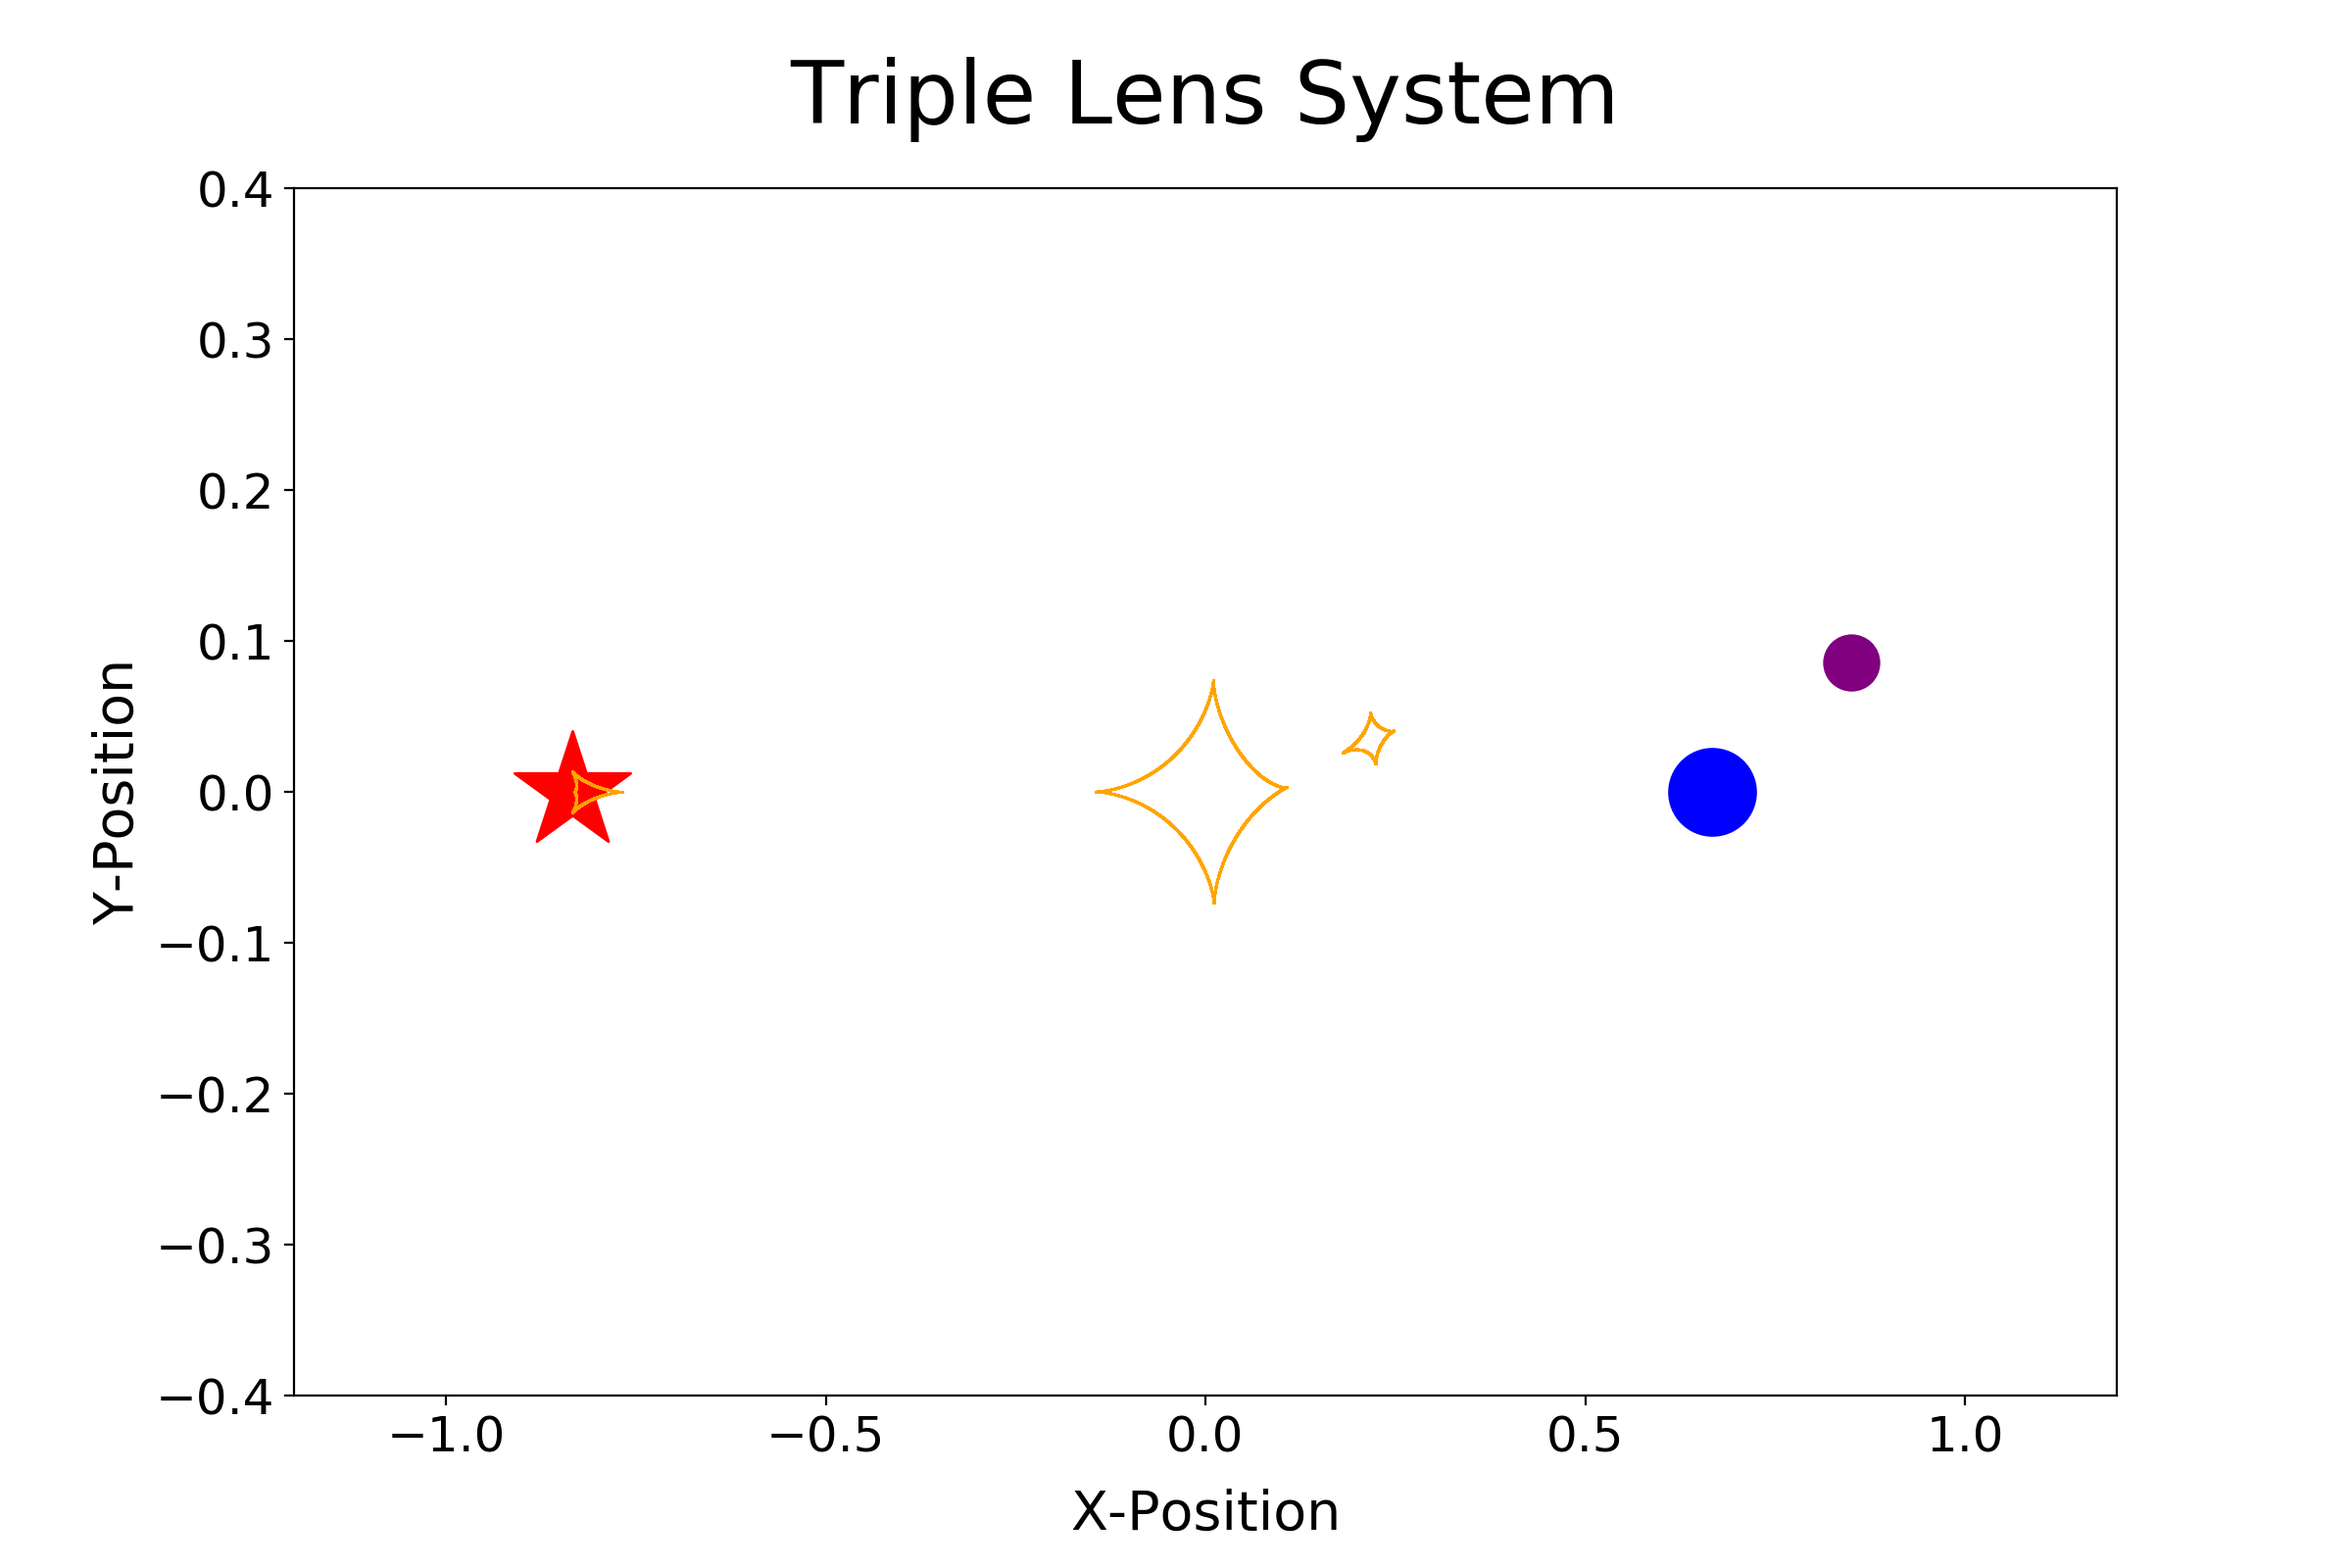
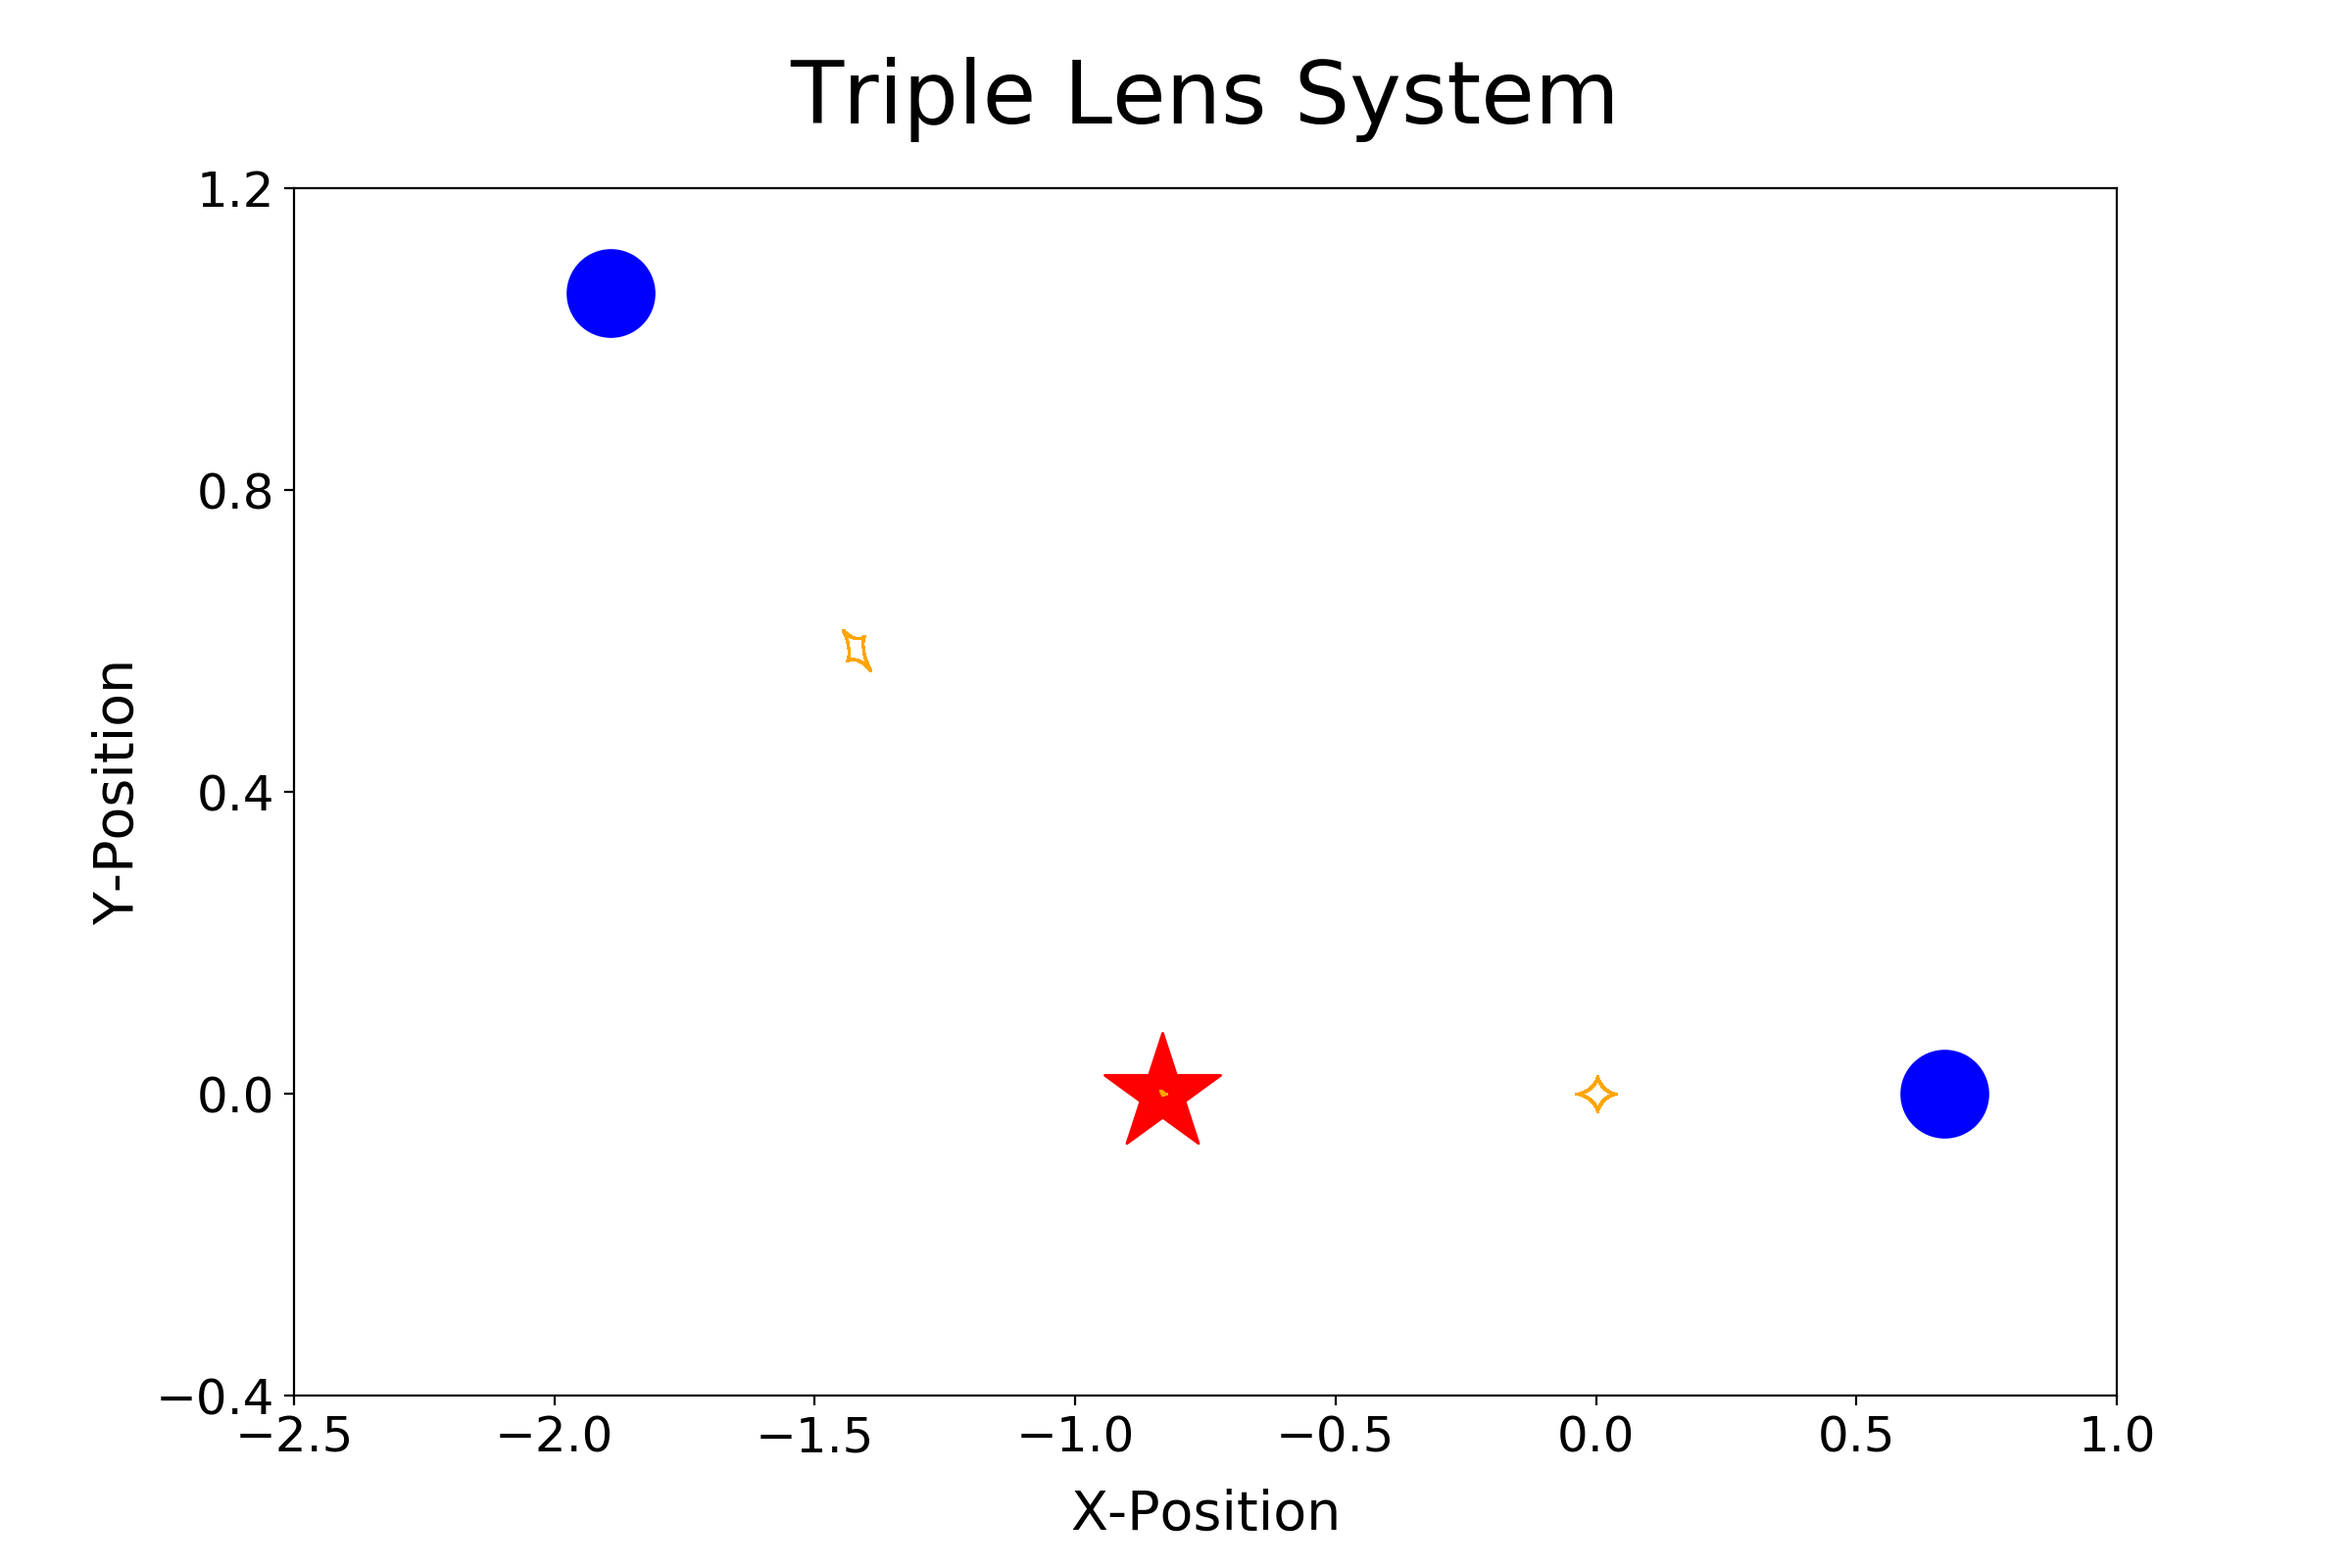
Small changes

diff --git a/Diagrams/BL_model.py b/Diagrams/BL_model.py
@@ -70,7 +70,11 @@ def get_triple_lens_plot(save_fig=False, show_fig=True, arrow_on=False, caustic_
 
 	plt.scatter(z1.real, z1.imag, s=2000, color='red', marker='*')
 	plt.scatter(z2.real, z2.imag, s=1000, color='blue')
-	plt.scatter(z3.real, z3.imag, s=400, color='purple')
+	if system == 'SPM':
+		plt.scatter(z3.real, z3.imag, s=400, color='purple')
+	else:
+		plt.scatter(z3.real, z3.imag, s=(q2/q1)*1000, color='blue')
+	
 
 	if arrow_on:
 		ax = plt.axes()
@@ -105,11 +109,21 @@ def get_triple_lens_plot(save_fig=False, show_fig=True, arrow_on=False, caustic_
 def got_plot_adjustments(title):
 
 	plt.xlim(-1.2, 1.2)
-	plt.ylim(-0.4, 0.4)
+	"""
+	if system == 'SPP':
+		plt.ylim(-0.4, 0.8)
+		plt.yticks(np.arange(-0.4, 0.81, 0.2))
+	else:
+		plt.ylim(-0.4, 0.4)
+		plt.yticks(np.arange(-0.4, 0.41, 0.1))
+	"""
+	plt.ylim(-0.4, 1.2)
+	plt.yticks(np.arange(-0.4, 1.21, 0.4))
+	plt.xlim(-2.5, 1.0)
+	plt.xticks(np.arange(-2.5, 1.21, 0.5))
+
 	plt.xlabel('X-Position', fontsize=20, labelpad=10)
 	plt.ylabel('Y-Position', fontsize=20, rotation=90)
-	plt.xticks(np.arange(-1.0, 1.1, 0.5))
-	plt.yticks(np.arange(-0.4, 0.41, 0.1))
 	plt.tick_params(axis='x', labelsize=18)
 	plt.tick_params(axis='y', labelsize=18)
 	plt.title('{}'.format(title), fontsize=32, y=1.04)
@@ -131,24 +145,27 @@ s = 1.5
 q = 1e-2
 solver = 'SG12'
 origin = 'plan'
+system = None
 
 plot_frame = 'caustic'
 refine_region = True
 SFD = True
 
-save_fig = True
+save_fig = False
 show_fig = False
 
+"""
 get_binary_lens_plot(save_fig, show_fig, arrow_on=False, caustic_on=False)
 get_binary_lens_plot(save_fig, show_fig, arrow_on=False, caustic_on=True)
 get_binary_lens_plot(save_fig, show_fig, arrow_on=True, caustic_on=False)
 get_binary_lens_plot(save_fig, show_fig, arrow_on=True, caustic_on=True)
+"""
 
-# Input parameters for triple lens
+# Input parameters for triple lens SPM
 s1 = 1.5
-s2 = 2.0
+s2 = 1.2
 q1 = 1e-2
-q2 = 4e-2
+q2 = 2e-2
 phi = 155
 solver = 'SG12'
 origin = 'body2'
@@ -158,12 +175,52 @@ plot_frame = 'caustic'
 SFD = True
 
 save_fig = True
+show_fig = True
+
+#get_triple_lens_plot(save_fig, show_fig, arrow_on=False, caustic_on=False)
+#get_triple_lens_plot(save_fig, show_fig, arrow_on=False, caustic_on=True)
+#get_triple_lens_plot(save_fig, show_fig, arrow_on=True, caustic_on=False)
+#get_triple_lens_plot(save_fig, show_fig, arrow_on=True, caustic_on=True)
+
+# Input parameters for triple lens SPP
+s1 = 1.5
+s2 = 1.8
+q1 = 1e-2
+q2 = 6e-3
+phi = 20
+solver = 'SG12'
+origin = 'body2'
+system = 'SPP'
+
+plot_frame = 'caustic'
+SFD = True
+
+save_fig = False
 show_fig = False
 
-get_triple_lens_plot(save_fig, show_fig, arrow_on=False, caustic_on=False)
+#get_triple_lens_plot(save_fig, show_fig, arrow_on=False, caustic_on=False)
+#get_triple_lens_plot(save_fig, show_fig, arrow_on=False, caustic_on=True)
+#get_triple_lens_plot(save_fig, show_fig, arrow_on=True, caustic_on=False)
+#get_triple_lens_plot(save_fig, show_fig, arrow_on=True, caustic_on=True)
+
+s1 = 1.5
+s2 = 1.5
+q1 = 1e-3
+q2 = 1e-3
+phi = 135
+solver = 'SG12'
+origin = 'body2'
+system = 'SPP'
+
+plot_frame = 'caustic'
+SFD = True
+
+save_fig = True
+show_fig = False
+
 get_triple_lens_plot(save_fig, show_fig, arrow_on=False, caustic_on=True)
-get_triple_lens_plot(save_fig, show_fig, arrow_on=True, caustic_on=False)
-get_triple_lens_plot(save_fig, show_fig, arrow_on=True, caustic_on=True)
+
+
 
 
 

diff --git a/Analysis/TL/plots.py b/Analysis/TL/plots.py
@@ -60,19 +60,19 @@ def make_plot():
 				p.write_to_fits()
 
 # Input parameters
-q1s = [1e-2, 1e-3, 1e-4]
-q2 = 1e-3
-sep1 = [0.91]
-s2 = 1.0
-phi = 180
+q1s = [1e-5]
+q2 = 1e-5
+sep1 = [1.5]
+s2 = 1.5
+phi = 135
 system = 'SPP'
 
 solver =  'SG12'
-origin = 'body3'
+origin = 'body2'
 
 plot_frame = 'caustic'
 
-res = int(2)
+res = int(150)
 sample_res = 5
 cutoff = 1.5
 region = 'caustic_2a'
@@ -94,7 +94,7 @@ for s1 in sep1:
 		plot.append(TL(**param[-1]))
 
 plot_types = []
-#plot_types.append('num_images')
+plot_types.append('num_images')
 #plot_types.append('magn')
 #plot_types.append('lens_bodies')
 #plot_types.append('num_iamges_coeff')

diff --git a/Analysis/BL/plots.py b/Analysis/BL/plots.py
@@ -11,20 +11,20 @@ import numpy as np
 
 
 # Input parameters
-s = 1.5
-mass_ratios = [2e-8]
+s = 0.9
+mass_ratios = [1e-1]
 
 solvers =  ['SG12']
-origins = ['caustic']
+origins = ['plan']
 
 plot_frame = 'caustic'
 
-res = int(150)
+res = int(50)
 sample_res = 5
 cutoff = 1.5
 region = 'caustic_a'
 region_lim = [-20, 20, -20, 20]
-refine_region = False
+refine_region = True
 
 SFD = True
 
